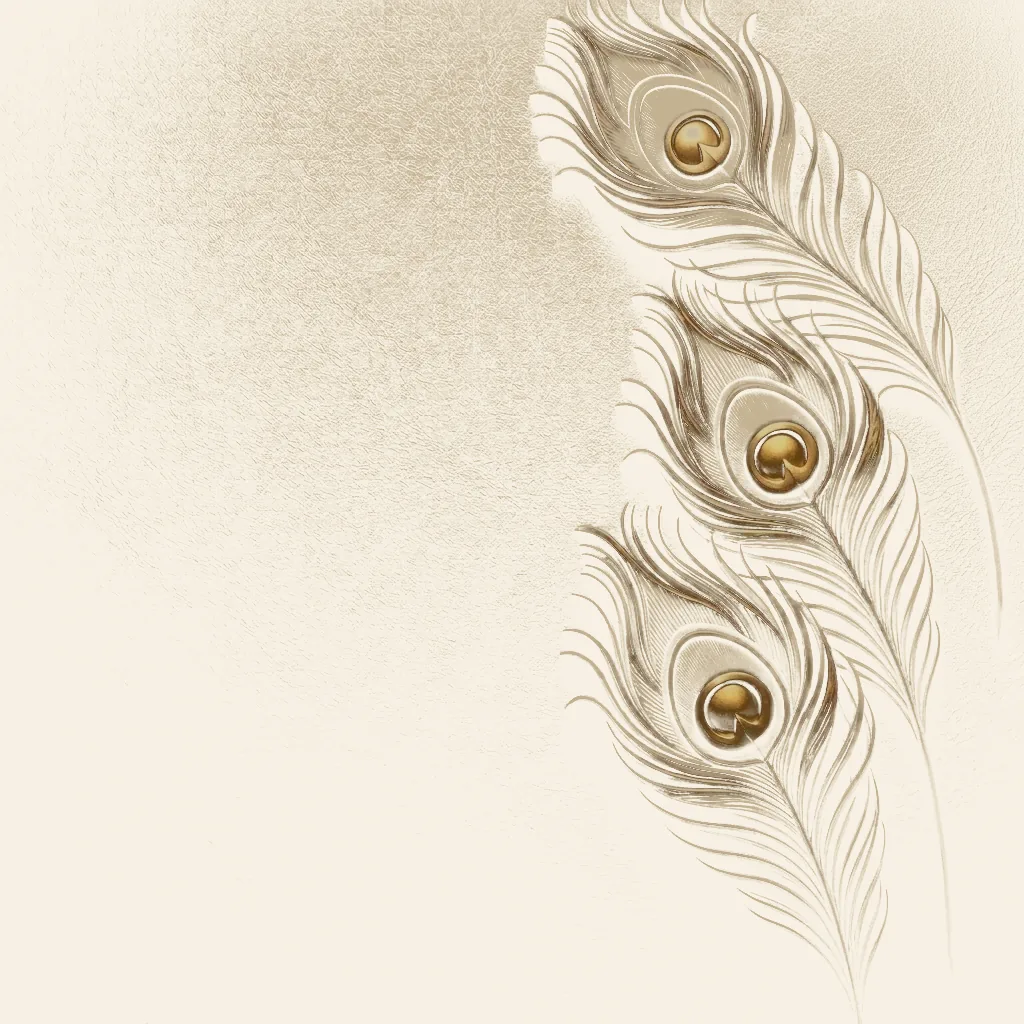
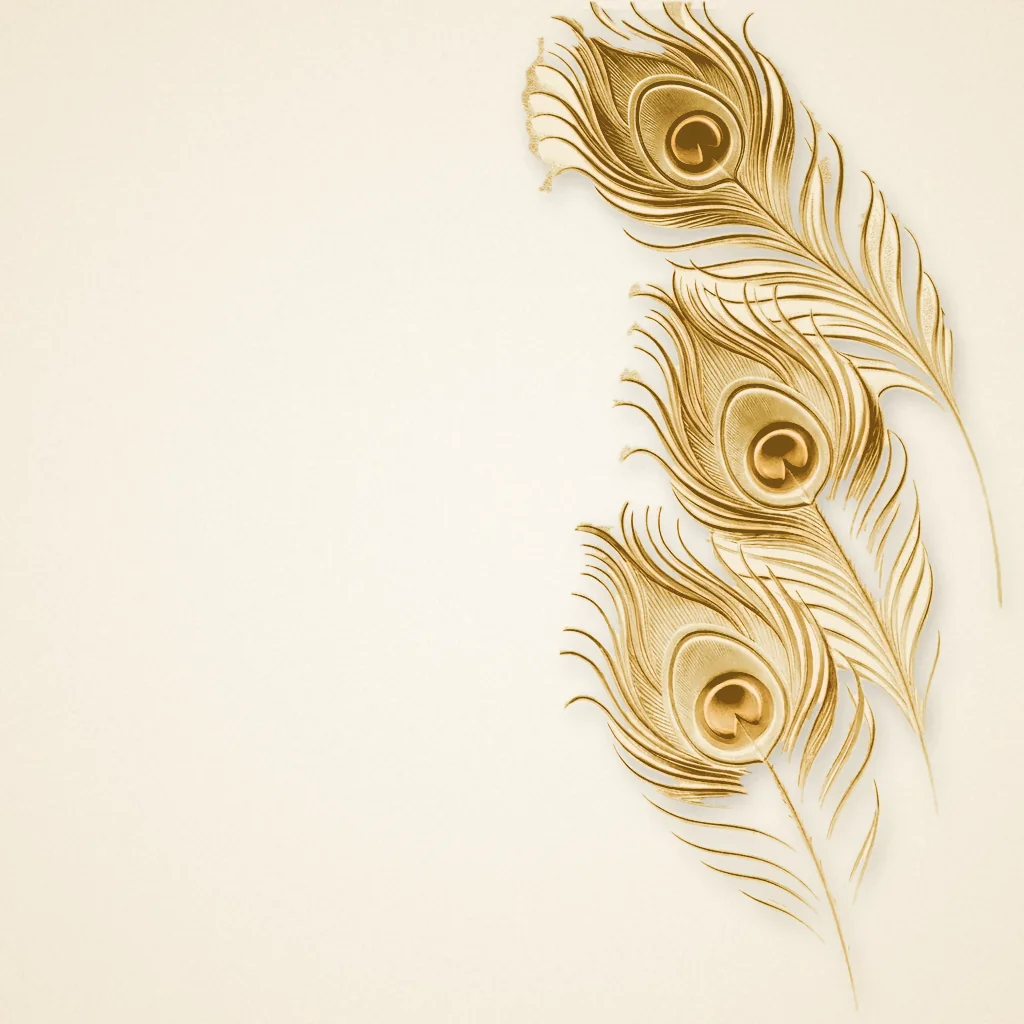
Light mode: gold-foil peacock feathers on clean cream paper
Rebuilt the three light backgrounds: feathers separated from the leather backdrop and
recoloured champagne-to-bronze with a soft embossed shadow; the leather texture and
blotchy lighting replaced by even cream paper. Login picture anchored right in light mode.

diff --git a/frontend/src/index.css b/frontend/src/index.css
@@ -455,6 +455,9 @@ p {
 :root[data-theme="light"] .glass-card:hover {
   box-shadow: 0 8px 30px rgba(138, 106, 16, 0.1);
 }
+:root[data-theme="light"] .auth-bg-image {
+  background-position: right center;
+}
 :root[data-theme="light"] .auth-bg-overlay {
   background: linear-gradient(135deg, rgba(247, 241, 228, 0.55) 0%, rgba(247, 241, 228, 0.2) 50%, transparent 100%);
 }
@@ -469,7 +472,7 @@ p {
   background: rgba(247, 241, 228, 0.3);
 }
 :root[data-theme="light"] .dash-bg-overlay {
-  background: linear-gradient(45deg, rgba(247, 241, 228, 0.1) 0%, rgba(247, 241, 228, 0.35) 60%, rgba(247, 241, 228, 0.55) 100%);
+  background: linear-gradient(45deg, rgba(247, 241, 228, 0.3) 0%, rgba(247, 241, 228, 0.5) 60%, rgba(247, 241, 228, 0.65) 100%);
 }
 
 /* Theme switch in the navbar */
